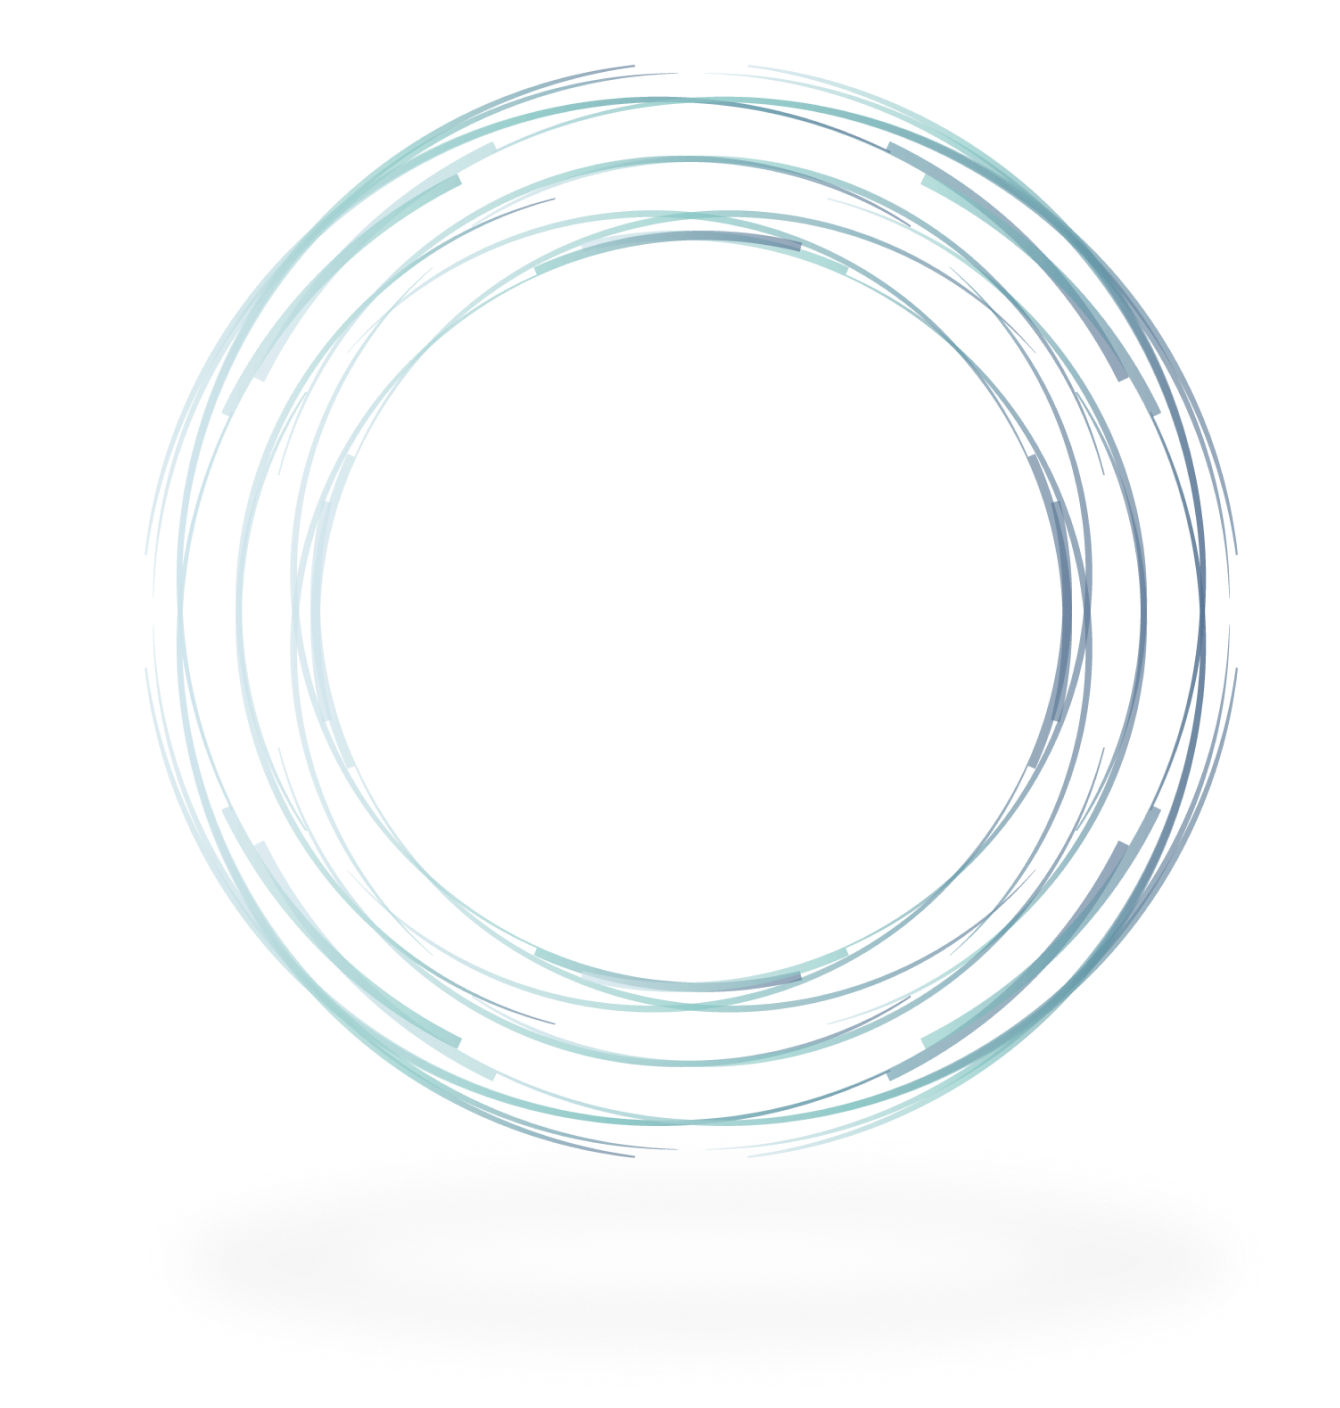
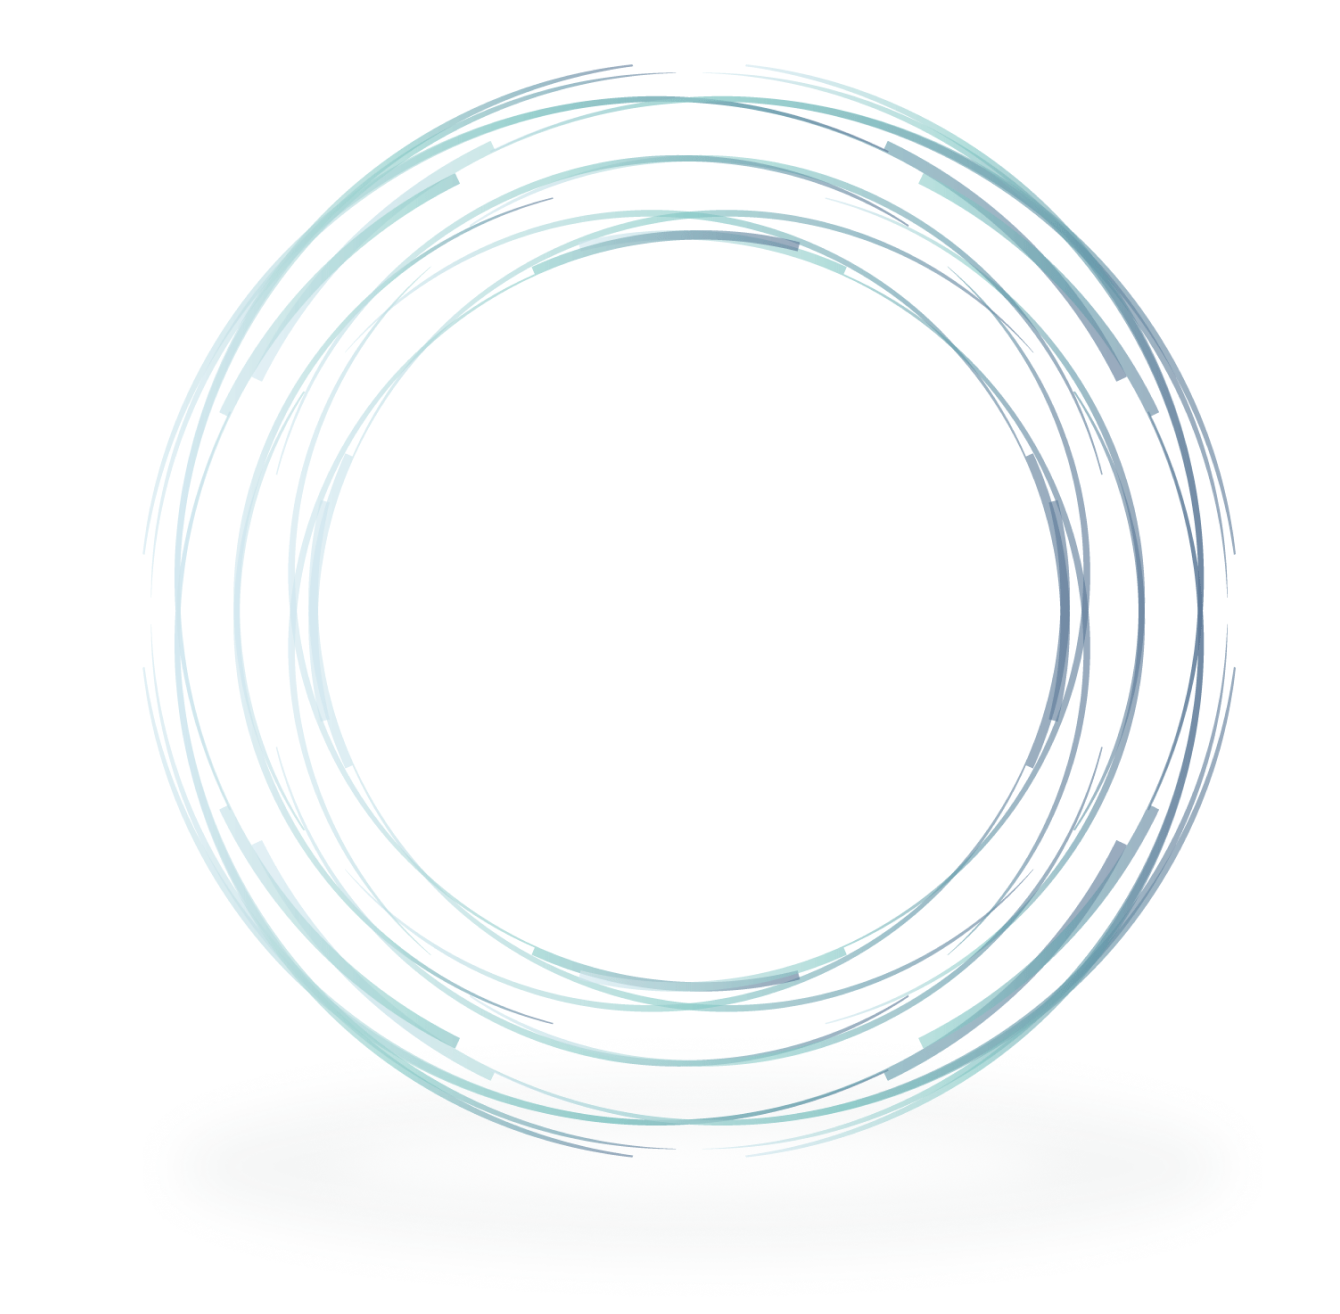
hero flex box finally working

Changed region(s): [[0.0918, 0.0312, 0.9179, 0.8737]]

diff --git a/css/flex.css b/css/flex.css
@@ -172,7 +172,7 @@
 
 @media screen and (min-width: 991px) {
   html {
-    font-size: 11px;
+    font-size: 10px;
   }
 
 /* Section & container sizes */
@@ -189,7 +189,12 @@
   }
 
   section {
-    width: 60%;
+    width: 70%;
+  }
+
+
+  .teal-circle {
+    visibility: visible;
   }
 
   .flex-hero {
@@ -199,8 +204,6 @@
     -webkit-flex-direction: row;
     flex-wrap: nowrap;
     -webkit-flex-wrap: nowrap;
-    height: 50rem;
-    background-color: green;
   }
 
   .hero p {
@@ -218,24 +221,27 @@
 
 /* hero content starts here */
 .hero-content {
-    width: 50%;
+  padding-top: 7rem;
     flex-grow: 1;
-    background-color: purple;
   }
 
   .hero-image {
-    flex-grow: 1;
-    display: flex;
-    background-color: red;
+    padding-right: 5rem;
+    width: 30%;
   }
 
-  .hero-image img {
-    visibility: visible;
+  .hero-image {
+    display: flex;
+    display: -webkit-flex;
+    flex-direction: row;
+    -webkit-flex-direction: row;
+    flex-wrap: nowrap;
+    -webkit-flex-wrap: nowrap;
   }
 
   .scroll-down-arrow {
+    padding-top: 3rem;
     width: 100%;
-    background-color: teal;
   }
 
 /* Design process content starts here */
@@ -286,13 +292,6 @@
 
   /* About content starts here */
 
-  .brazil-sm {
-    display: none;
-  }
-
-  .brazil-lg {
-    display: block !important;
-  }
 
 
 

diff --git a/index.html b/index.html
@@ -56,14 +56,14 @@
             <p> I love finding <span>elegant solutions</span> to <span>complex problems</span> and creating <span>meaningful products</span> that reflect the people they serve. </p>
           </div>
           <div class="hero-image">
-            <img class="teal-circle" src="assets/img/teal-circle@3x.png">
+            <img class="teal-circle" src="assets/img/teal-circle@3x.png" alt="teal circle">
           </div>
         </div>
           <div class="scroll-down-arrow">
             <a href="#featured-work">
               <img class="down-arrow" src="assets/img/down-arrow.svg" alt="down arrow"></img>
             </a>
-          </div>  
+          </div>
       </section>
       <!-- other sections below -->
       <section data-aos="fade-in" class="featured-work" id="featured-work">

diff --git a/css/styles.css b/css/styles.css
@@ -115,7 +115,7 @@ section {
 }
 
 .teal-circle {
-  display: none;
+  visibility: hidden;
 }
 
 a .down-arrow {
